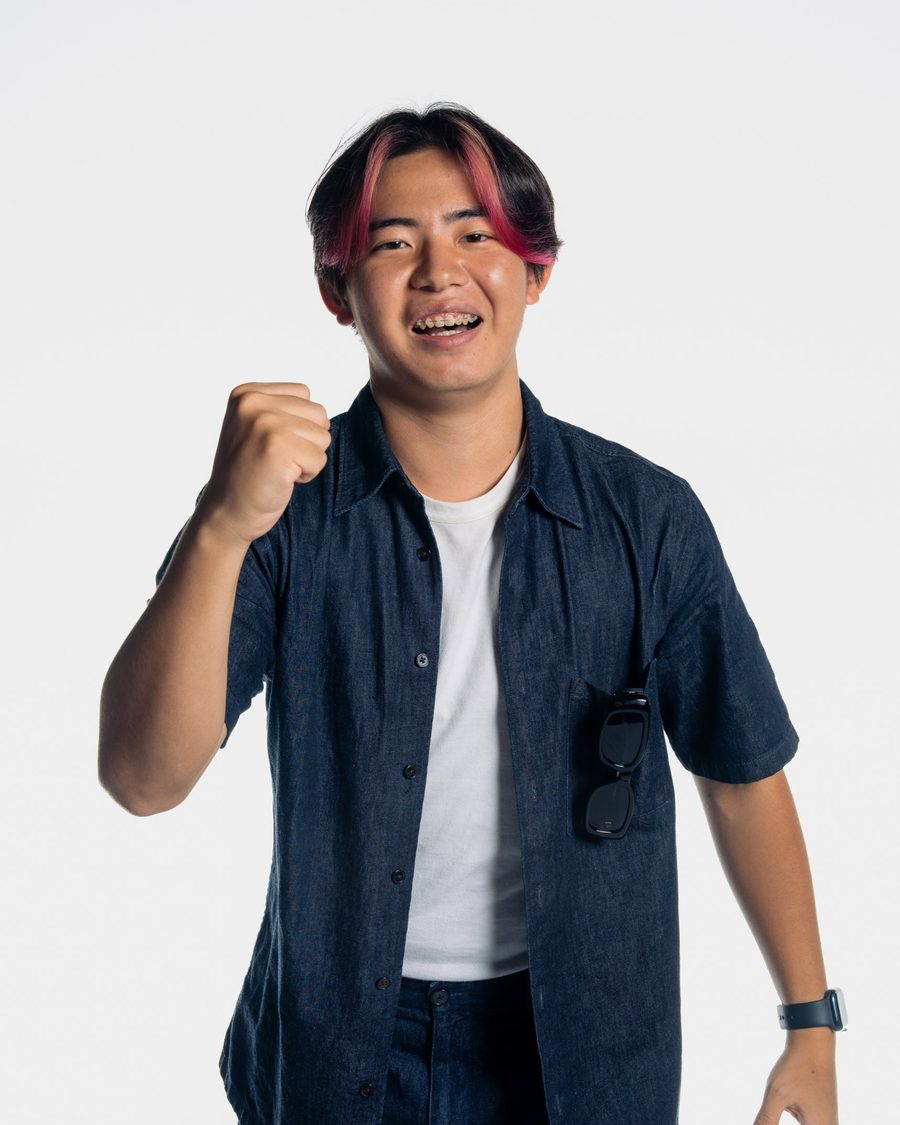
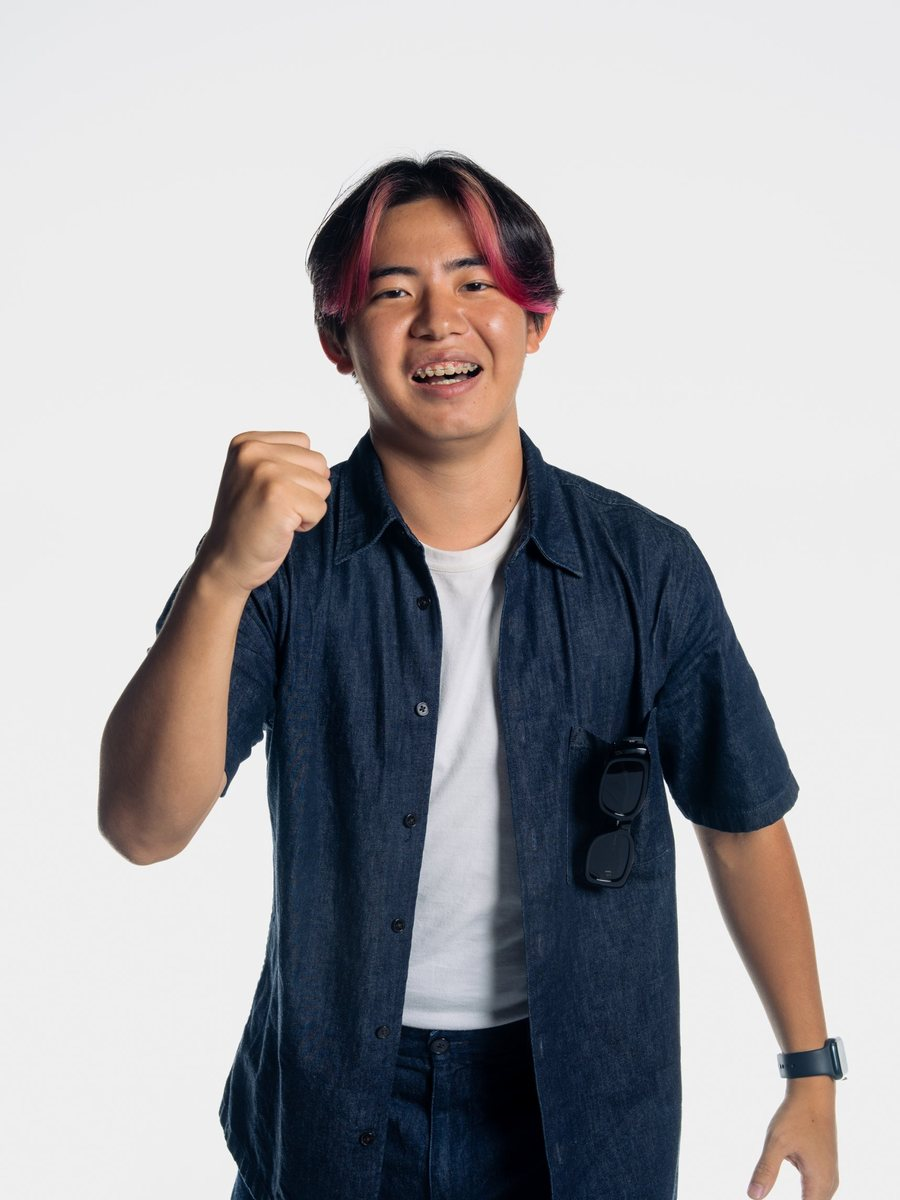
トップ写真を引きの構図に
Claude-Session: https://claude.ai/code/session_01VApt2zpnuNqQbYMwLxTobv

diff --git a/index.html b/index.html
@@ -148,7 +148,7 @@ header.scrolled{border-color:var(--line)}
 .btns{display:flex;flex-wrap:wrap;gap:12px}
 .hero-photo{position:relative;justify-self:center;width:min(100%,420px)}
 .hero-photo::before{content:"";position:absolute;inset:18px -18px -18px 18px;border-radius:28px;background:var(--accent);opacity:.92}
-.hero-photo img{position:relative;border-radius:28px;width:100%;aspect-ratio:4/5;object-fit:cover;background:#E8E9EB;clip-path:inset(0 0 100% 0 round 28px);transition:clip-path 1.1s .45s cubic-bezier(.77,0,.18,1)}
+.hero-photo img{position:relative;border-radius:28px;width:100%;aspect-ratio:3/4;object-fit:cover;object-position:50% 100%;background:#E8E9EB;clip-path:inset(0 0 100% 0 round 28px);transition:clip-path 1.1s .45s cubic-bezier(.77,0,.18,1)}
 .ready .hero-photo img{clip-path:inset(0 0 0 0 round 28px)}
 .hero-photo .tag{position:absolute;left:-14px;bottom:28px;background:#fff;border-radius:14px;padding:10px 16px;font-size:14px;font-weight:700;box-shadow:0 10px 30px rgba(0,0,0,.12)}
 .hero-photo .tag b{color:var(--accent)}
@@ -157,8 +157,7 @@ header.scrolled{border-color:var(--line)}
 @media (max-width:820px){
   .hero{padding:20px 0 44px}
   .hero-grid{grid-template-columns:1fr;gap:30px}
-  .hero-photo{width:min(74%,320px)}
-  .hero-photo img{aspect-ratio:1/1}
+  .hero-photo{width:min(70%,290px)}
 }
 
 /* ---------- ビジョン（黒） ---------- */
@@ -364,8 +363,8 @@ footer{background:var(--dark);color:#8E8E99;text-align:center;font-family:var(--
         </div>
       </div>
       <div class="hero-photo" data-speed="-0.05">
-        <!-- 写真を変えるときは images/hero.jpg を差し替え（縦長 4:5 がきれいに収まります） -->
-        <img src="images/hero.jpg" alt="ガッツポーズで笑う森山慎太郎" width="900" height="1125">
+        <!-- 写真を変えるときは images/hero.jpg を差し替え（縦長 3:4 がきれいに収まります） -->
+        <img src="images/hero.jpg" alt="ガッツポーズで笑う森山慎太郎" width="900" height="1200">
         <p class="tag fade">クエストカップ2024 <b>グランプリ＆Wow賞</b></p>
       </div>
     </div>
